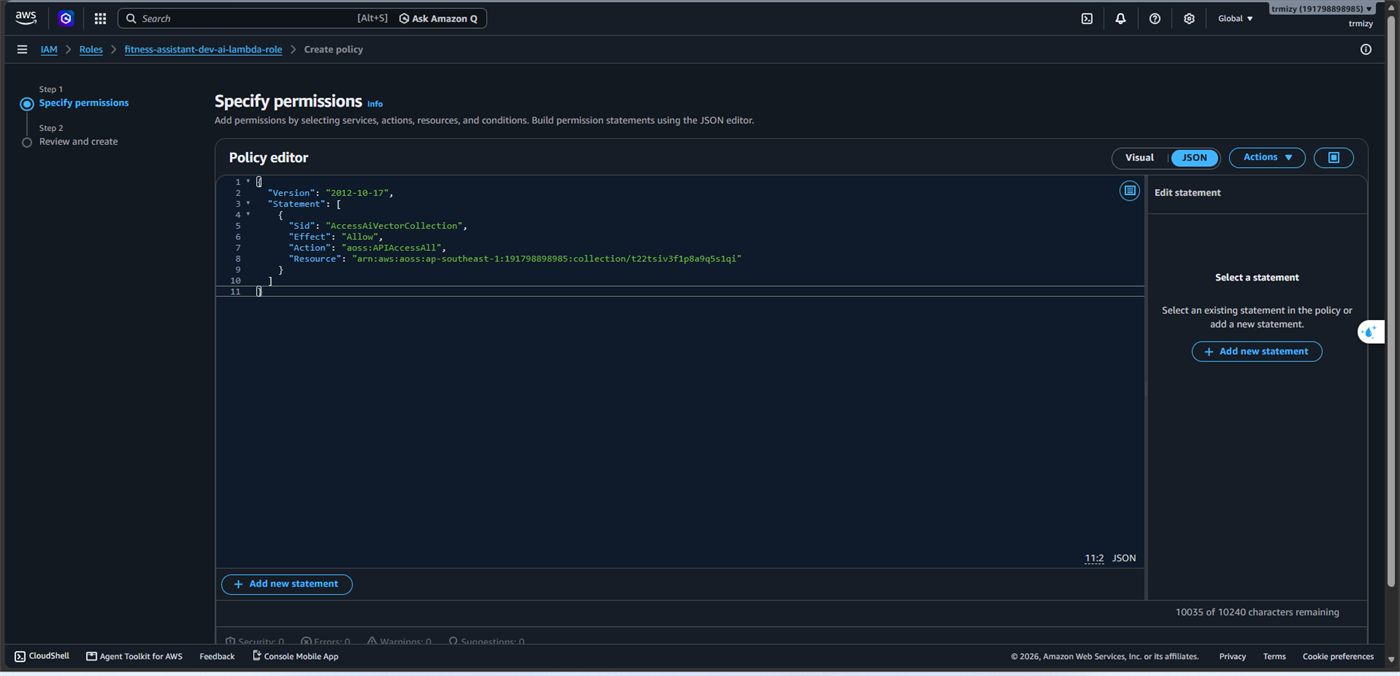
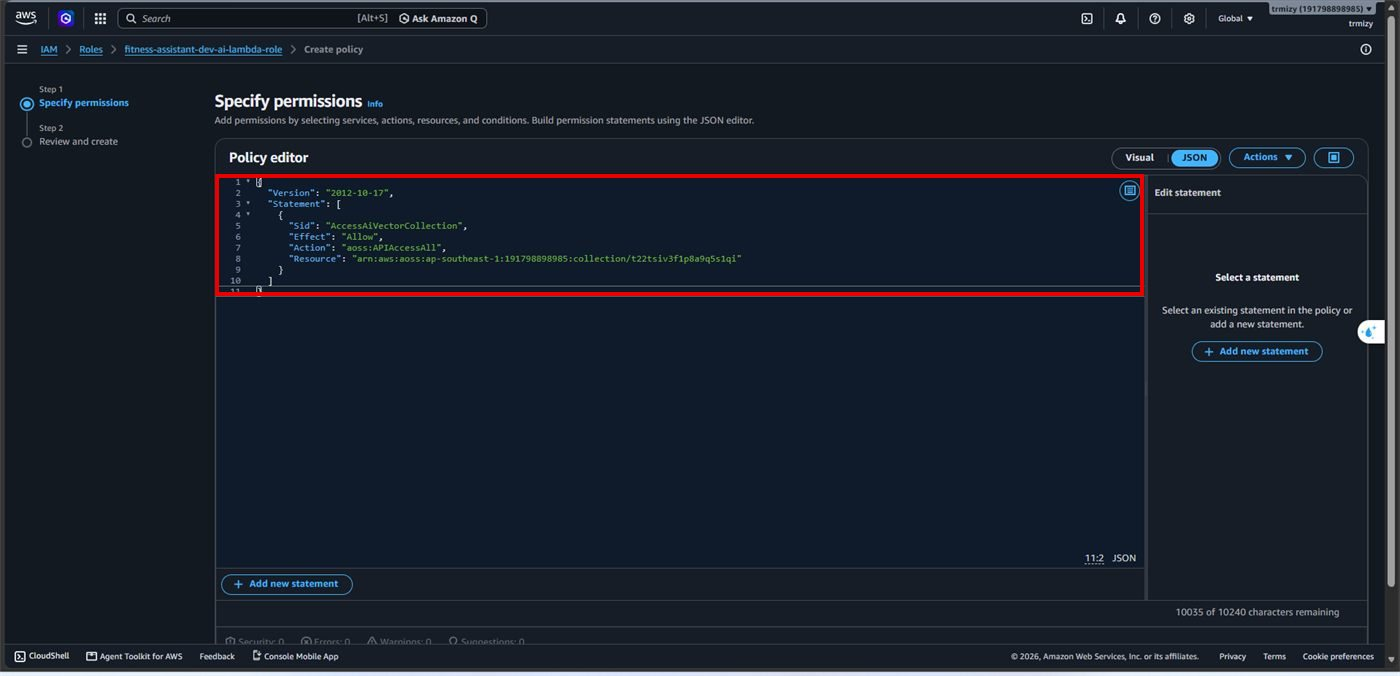
Workshop 5.4.9: one action per step, each followed by its screenshot

Changed region(s): [[0.1536, 0.2485, 0.8293, 0.466]]

diff --git a/content/5-Workshop/5.4-Deployment-Guide/5.4.9-AI-Service-Vector-Search/_index.md b/content/5-Workshop/5.4-Deployment-Guide/5.4.9-AI-Service-Vector-Search/_index.md
@@ -8,9 +8,11 @@ pre: " <b> 5.4.9. </b> "
 
 The local development stack used Qdrant as the vector store. For AWS, the code was given a vector-store abstraction with an OpenSearch implementation (58/58 tests passing), so production no longer needs `QDRANT_HOST` / `QDRANT_PORT`. Requests to OpenSearch are signed with SigV4 (service `aoss`) using each Lambda's IAM role — there is no OpenSearch username, password or API key.
 
+In every screenshot below, the **red rectangles** mark what to fill in or click for the sub-step written just above it.
+
 #### Step 1 — Re-upload the three AI Lambdas
 
-The new build includes the OpenSearch client and SigV4 support (HTTP/Worker ZIP ≈ 36,325,814 bytes), so it is uploaded first, keeping each handler:
+The new build includes the OpenSearch client and SigV4 support (HTTP/Worker ZIP ≈ 36,325,814 bytes), so it is uploaded first, keeping each handler. For each function use **Code → Upload from → .zip file** (or S3) and click **Update**:
 
 | Function | Artifact | Handler |
 |---|---|---|
@@ -20,46 +22,62 @@ The new build includes the OpenSearch client and SigV4 support (HTTP/Worker ZIP 
 
 No database migration is required for this change.
 
+*The runbook has no screenshot of this re-upload; the dialog is the same as in [5.4.8 Step 6.2](../5.4.8-AI-Service-Core/#step-6--create-the-ai-http-lambda).*
+
 #### Step 2 — Collection group with scale-to-zero
 
-**Amazon OpenSearch Service → Serverless → Collection groups → Create collection group**: generation **NextGen**, name `fitness-assistant-dev-ai`, description "Gymini AI vector search collection group".
+**2.1 — Name the group.** **Amazon OpenSearch Service → Serverless → Collection groups → Create collection group**: name `fitness-assistant-dev-ai`, generation **NextGen**, description "Gymini AI vector search collection group".
 
-![Create collection group fitness-assistant-dev-ai (NextGen)](/images/workshop/runbook/img207.jpg)
+![Collection group name, NextGen badge and the description](/images/workshop/runbook/img207.jpg)
+
+**2.2 — Set the capacity.** Scroll to **Capacity management** and set:
 
 | Capacity | Min | Max |
 |---|---|---|
 | Indexing | **0 OCU** | 2 OCU |
 | Search | **0 OCU** | 2 OCU |
 
-A minimum of 0 enables scale-to-zero: after about 10 idle minutes indexing and search drop to 0 OCU, and the first request after that can take an extra 10–30 seconds to wake up. A 0–2 OCU range is far more sensible for DEV than the default maximum of 96.
+Then click **Create**. A minimum of 0 enables scale-to-zero: after about 10 idle minutes indexing and search drop to 0 OCU, and the first request after that can take an extra 10–30 seconds to wake up. A 0–2 OCU range is far more sensible for DEV than the default maximum of 96.
 
-![Capacity: 0–2 indexing OCU and 0–2 search OCU](/images/workshop/runbook/img208.jpg)
+![Minimum and maximum indexing and search OCUs, Create](/images/workshop/runbook/img208.jpg)
 
-![Collection group created: NextGen, 0/2 OCU](/images/workshop/runbook/img209.jpg)
+**2.3 — Check the group.** The list must show `fitness-assistant-dev-ai`, NextGen, indexing 0 / 2 OCUs and search 0 / 2 OCUs.
+
+![Collection group row: NextGen, 0 / 2 OCUs](/images/workshop/runbook/img209.jpg)
 
 #### Step 3 — Private VPC endpoint
 
-**OpenSearch Service → Serverless → VPC endpoints → Create VPC endpoint**: VPC `fitness-assistant-dev-vpc`, subnets `private-app-a` and `private-app-b`. The runbook specifies the existing `fitness-assistant-dev-vpce-sg` (TCP 443 from the Lambda SG); the endpoint captured below (`fitness-dev-opensearch-vpce`) shows the Lambda SG attached — whichever group is attached must allow inbound TCP 443 from the Lambda security group. Wait for **Available** and note the endpoint ID (`vpce-…`, not the endpoint URL).
+**3.1 — Open the VPC endpoints page.** **OpenSearch Service → Serverless → VPC endpoints** and click **Create VPC endpoint**. The page itself warns that it manages endpoints for **Classic** collections and that NextGen collections use the Amazon EC2 VPC endpoints console — keep that in mind if the endpoint does not show up in the NextGen collection later.
 
-![VPC endpoints page for OpenSearch Serverless](/images/workshop/runbook/img210.jpg)
+![VPC endpoints page and the Create VPC endpoint button](/images/workshop/runbook/img210.jpg)
 
-![Endpoint fitness-dev-opensearch-vpce in both private app subnets](/images/workshop/runbook/img211.jpg)
+**3.2 — Fill in the endpoint.** Name `fitness-dev-opensearch-vpce`, VPC `fitness-assistant-dev-vpc`, subnets `private-app-a` and `private-app-b`. The runbook specifies the existing `fitness-assistant-dev-vpce-sg` (TCP 443 from the Lambda SG); the endpoint captured below shows the Lambda SG attached — whichever group is attached must allow inbound TCP 443 from the Lambda security group. Wait for **Available** (the screenshot was taken while it was still **Pending**) and note the endpoint ID (`vpce-…`, not the endpoint URL).
+
+![Endpoint ID, both private app subnets and the attached security group (status Pending)](/images/workshop/runbook/img211.jpg)
 
 #### Step 4 — Vector search collection
 
-**Serverless → Collections → Create collection**: NextGen, **Standard create** (not Express — private networking and access policies must be controlled), name `fitness-assistant-dev-ai-vectors`, description "Gymini AI vector store for RAG and knowledge retrieval", type **Vector search**, collection group `fitness-assistant-dev-ai`, AWS-owned encryption key.
+**4.1 — Start the collection.** **Serverless → Collections → Create collection**.
 
-![Collections page](/images/workshop/runbook/img212.jpg)
+![Collections page with no collections and the Create collection button](/images/workshop/runbook/img212.jpg)
 
-![Collection fitness-assistant-dev-ai-vectors, type Vector search](/images/workshop/runbook/img213.jpg)
+**4.2 — Name it and choose the type.** NextGen, name `fitness-assistant-dev-ai-vectors`, description "Gymini AI vector store for RAG and knowledge retrieval", collection type **Vector search**.
 
-![Standard create in the existing collection group](/images/workshop/runbook/img214.jpg)
+![Collection name, description and Vector search type](/images/workshop/runbook/img213.jpg)
 
-Networking: access type **Private**, through the VPC endpoint above — no public access.
+**4.3 — Choose Standard create and the group.** Choose **Standard create** (not Express — private networking and access policies must be controlled), **Select existing collection group** and pick `fitness-assistant-dev-ai`.
 
-![Private access through the VPC endpoint](/images/workshop/runbook/img215.jpg)
+![Standard create, existing collection group fitness-assistant-dev-ai](/images/workshop/runbook/img214.jpg)
 
-Data access: **Create as a new data access policy** named `fitness-dev-ai-vector-access`, defined as **JSON** rather than ticking permissions in the visual editor:
+**4.4 — Network access.** Keep the AWS-owned encryption key, choose access type **Private (recommended)**, tick **VPC endpoints for access** and select the endpoint from Step 3 — no public access.
+
+![Private access with the VPC endpoint selected](/images/workshop/runbook/img215.jpg)
+
+**4.5 — Data access policy, part 1.** **Create as a new data access policy**, name `fitness-dev-ai-vector-access`, definition method **JSON** rather than ticking permissions in the visual editor.
+
+![Create a new data access policy, its name and the JSON method](/images/workshop/runbook/img216.jpg)
+
+**4.6 — Data access policy, part 2.** Paste the JSON:
 
 ```json
 [
@@ -94,23 +112,27 @@ Data access: **Create as a new data access policy** named `fitness-dev-ai-vector
 
 `aoss:DeleteIndex` is deliberately not granted.
 
-![Data access policy fitness-dev-ai-vector-access, defined as JSON](/images/workshop/runbook/img216.jpg)
+![JSON editor holding the data access policy](/images/workshop/runbook/img217.jpg)
 
-![Data access policy JSON](/images/workshop/runbook/img217.jpg)
+**4.7 — OpenSearch UI.** The wizard also creates an OpenSearch application and workspace for browsing the data: **Create new OpenSearch application** `aoss-fitness-dev-ai` and **Create new workspace** `fitness-dev-ai-vectors`.
 
-The wizard also creates an OpenSearch application (`aoss-fitness-dev-ai`) and workspace for browsing the data, with administrator permission limited to the account's IAM principal.
+![New application aoss-fitness-dev-ai and new workspace fitness-dev-ai-vectors](/images/workshop/runbook/img218.jpg)
 
-![OpenSearch application and workspace](/images/workshop/runbook/img218.jpg)
+**4.8 — Administrators and creation.** Leave IAM Identity Center unticked, grant administrator permission to the account's IAM principal only, then click **Create collection**.
 
-![Application administrators](/images/workshop/runbook/img219.jpg)
+![Application administrators and the Create collection button](/images/workshop/runbook/img219.jpg)
 
-![Creating the collection](/images/workshop/runbook/img220.jpg)
+**4.9 — Wait for creation.** The page shows "Creating collection"; do not navigate away until the collection details page appears.
+
+![Important notice: creating OpenSearch Serverless resources](/images/workshop/runbook/img220.jpg)
 
 When the collection is **Active**, copy its **ARN** (for IAM) and **OpenSearch endpoint** (`https://<collection-id>.aoss.ap-southeast-1.on.aws`, for the Lambdas) with the console's copy buttons. Indexes are not created by hand.
 
 #### Step 5 — IAM permission on all three AI roles
 
-The data access policy and IAM are two separate layers; missing either one returns 403. Add the inline policy `fitness-assistant-dev-opensearch-access` to **each** of `fitness-assistant-dev-ai-lambda-role`, `-ai-worker-role` and `-ai-jobs-role`:
+The data access policy and IAM are two separate layers; missing either one returns 403. Do the two sub-steps below for **each** of `fitness-assistant-dev-ai-lambda-role`, `-ai-worker-role` and `-ai-jobs-role` (the screenshots show the first one).
+
+**5.1 — Paste the policy.** **IAM → Roles → the role → Add permissions → Create inline policy → JSON**:
 
 ```json
 {
@@ -130,11 +152,13 @@ Not used: `AmazonOpenSearchServerlessFullAccess`, `aoss:DashboardsAccessAll`, `a
 
 ![aoss:APIAccessAll limited to the collection ARN](/images/workshop/runbook/img221.jpg)
 
-![Policy name fitness-assistant-dev-opensearch-access](/images/workshop/runbook/img222.jpg)
+**5.2 — Name and create it.** `fitness-assistant-dev-opensearch-access`, **Create policy**.
+
+![Policy name fitness-assistant-dev-opensearch-access and Create policy](/images/workshop/runbook/img222.jpg)
 
 #### Step 6 — Environment variables
 
-Add to all three AI Lambdas (and remove `QDRANT_HOST` / `QDRANT_PORT` if present):
+**6.1 — Add the variables** on all three AI Lambdas (**Configuration → Environment variables → Edit**), and remove `QDRANT_HOST` / `QDRANT_PORT` if present:
 
 ```
 VECTOR_STORE_PROVIDER=opensearch
@@ -143,9 +167,9 @@ OPENSEARCH_SERVERLESS_ENDPOINT=https://<collection-id>.aoss.ap-southeast-1.on.aw
 KNOWLEDGE_VECTOR_SIZE=1024
 ```
 
-The Worker keeps `LLM_TIMEOUT_MS=180000`.
+The Worker keeps `LLM_TIMEOUT_MS=180000`. The screenshot shows the three OpenSearch rows on the AI Lambda and the **Save** button (`KNOWLEDGE_VECTOR_SIZE` was already set in [5.4.8](../5.4.8-AI-Service-Core/)).
 
-![OpenSearch environment variables on the AI Lambda](/images/workshop/runbook/img223.jpg)
+![VECTOR_STORE_PROVIDER, OPENSEARCH_REGION, OPENSEARCH_SERVERLESS_ENDPOINT and Save](/images/workshop/runbook/img223.jpg)
 
 ```
                  Amazon Bedrock
@@ -161,35 +185,49 @@ The Worker keeps `LLM_TIMEOUT_MS=180000`.
 
 #### Step 7 — Let the code create the indexes
 
-The collection shows *Indexes: -* and stays that way: the indexes `exercises`, `fitness_knowledge`, `fitness_faq` and `fitness_evidence` are bootstrapped by the code on first use with the exact mapping it expects — vector field `vector`, type `knn_vector`, dimension **1024**, engine `faiss`, method `hnsw`, space `cosinesimil`. If an index exists with the wrong dimension the code fails instead of deleting data.
+No action in the console. The collection shows *Indexes: -* and stays that way: the indexes `exercises`, `fitness_knowledge`, `fitness_faq` and `fitness_evidence` are bootstrapped by the code on first use with the exact mapping it expects — vector field `vector`, type `knn_vector`, dimension **1024**, engine `faiss`, method `hnsw`, space `cosinesimil`. If an index exists with the wrong dimension the code fails instead of deleting data.
 
 #### Step 8 — Scheduler role for the AI jobs
 
-Custom trust policy for `scheduler.amazonaws.com`, role `fitness-assistant-dev-ai-jobs-scheduler-role`, inline policy `fitness-assistant-dev-invoke-ai-jobs` with `lambda:InvokeFunction` on `fitness-assistant-dev-ai-jobs` only.
+**8.1 — Choose the custom trust policy.** **IAM → Roles → Create role**, choose **Custom trust policy** and paste a statement with principal `scheduler.amazonaws.com` and action `sts:AssumeRole`.
 
-![Custom trust policy for EventBridge Scheduler](/images/workshop/runbook/img224.jpg)
+![Custom trust policy selected and its JSON for scheduler.amazonaws.com](/images/workshop/runbook/img224.jpg)
 
-![Role fitness-assistant-dev-ai-jobs-scheduler-role](/images/workshop/runbook/img225.jpg)
+**8.2 — Name the role.** `fitness-assistant-dev-ai-jobs-scheduler-role`, then **Create role**.
 
-![Inline policy for the AI jobs Lambda](/images/workshop/runbook/img226.jpg)
+![Role name fitness-assistant-dev-ai-jobs-scheduler-role](/images/workshop/runbook/img225.jpg)
 
-![Policy name fitness-assistant-dev-invoke-ai-jobs](/images/workshop/runbook/img227.jpg)
+**8.3 — Write the inline policy.** On the role, **Add permissions → Create inline policy → JSON**: `lambda:InvokeFunction` on `fitness-assistant-dev-ai-jobs` only.
+
+![JSON editor: lambda:InvokeFunction on fitness-assistant-dev-ai-jobs](/images/workshop/runbook/img226.jpg)
+
+**8.4 — Name and create it.** `fitness-assistant-dev-invoke-ai-jobs`, **Create policy**.
+
+![Policy name fitness-assistant-dev-invoke-ai-jobs and Create policy](/images/workshop/runbook/img227.jpg)
 
 #### Step 9 — Five schedules
 
-The auto-accept schedule: `fitness-assistant-dev-ai-autoaccept`, `rate(15 minutes)`, payload `{"job": "personalized-service-autoaccept-sweep"}`, enabled, the AI jobs scheduler role.
+**9.1 — Name the auto-accept schedule.** **EventBridge → Schedules → Create schedule**: name `fitness-assistant-dev-ai-autoaccept`, **Recurring schedule**, **Rate-based schedule**.
 
-![Schedule fitness-assistant-dev-ai-autoaccept](/images/workshop/runbook/img228.jpg)
+![Schedule name, Recurring schedule and Rate-based schedule](/images/workshop/runbook/img228.jpg)
 
-![rate(15 minutes), flexible window off](/images/workshop/runbook/img229.jpg)
+**9.2 — Set the rate.** `15` `minutes`, flexible time window **Off**, then **Next**.
 
-![Target fitness-assistant-dev-ai-jobs with the auto-accept payload](/images/workshop/runbook/img230.jpg)
+![Rate 15 minutes, flexible window Off and Next](/images/workshop/runbook/img229.jpg)
 
-![Retry policy and DLQ settings](/images/workshop/runbook/img231.jpg)
+**9.3 — Choose the target.** Click the **AWS Lambda — Invoke** tile, pick `fitness-assistant-dev-ai-jobs` and enter the payload `{"job": "personalized-service-autoaccept-sweep"}`.
 
-![Existing role fitness-assistant-dev-ai-jobs-scheduler-role](/images/workshop/runbook/img232.jpg)
+![AWS Lambda Invoke, function ai-jobs and the auto-accept payload](/images/workshop/runbook/img230.jpg)
 
-Then four nightly knowledge-ingestion schedules (cron-based, time zone `Asia/Ho_Chi_Minh` so they run at night Vietnam time):
+**9.4 — Choose the settings.** Keep the schedule enabled, retry on with maximum age `0` hours `5` minutes, `2` retry attempts and DLQ **None**.
+
+![Enable, retry 5 minutes, 2 attempts, DLQ None](/images/workshop/runbook/img231.jpg)
+
+**9.5 — Choose the role.** **Use existing role**: `fitness-assistant-dev-ai-jobs-scheduler-role`, then **Next** and create the schedule.
+
+![Use existing role, the AI jobs scheduler role and Next](/images/workshop/runbook/img232.jpg)
+
+**9.6 — Create the four nightly schedules** the same way, but cron-based, time zone `Asia/Ho_Chi_Minh` so they run at night Vietnam time:
 
 | Schedule | Expression | Payload |
 |---|---|---|
@@ -198,6 +236,8 @@ Then four nightly knowledge-ingestion schedules (cron-based, time zone `Asia/Ho_
 | `fitness-assistant-dev-ai-rss` | `cron(0 3 * * ? *)` | `{"job":"rss-refresh"}` |
 | `fitness-assistant-dev-ai-web` | `cron(30 3 * * ? *)` | `{"job":"web-refresh"}` |
 
+*The runbook has no screenshots of the four cron schedules.*
+
 ```
 EventBridge Scheduler → AI Jobs Lambda → PubMed / RSS / Web / Local
    → Cohere Embed Multilingual v3 (1024) → OpenSearch Serverless → fitness_knowledge / fitness_evidence …
@@ -205,7 +245,11 @@ EventBridge Scheduler → AI Jobs Lambda → PubMed / RSS / Web / Local
 
 #### Step 10 — Connect the AI Lambda to API Gateway
 
-Create the Lambda integration `fitness-assistant-dev-ai` (payload 2.0) and eight routes:
+**10.1 — Create the integration.** **API Gateway → fitness-assistant-dev-api → Integrations → Create**: **Lambda function**, region `ap-southeast-1`, pick `fitness-assistant-dev-ai`, payload format `2.0`, keep **Grant API Gateway permission to invoke your Lambda function**, then **Create**.
+
+![Lambda function integration, payload 2.0 and Create](/images/workshop/runbook/img233.jpg)
+
+**10.2 — Create and attach eight routes.**
 
 ```
 ANY /ai            ANY /ai/{proxy+}
@@ -216,13 +260,19 @@ ANY /admin/ai      ANY /admin/ai/{proxy+}
 
 The greedy routes cover `POST /ai/ask`, `GET /ai/conversations`, `POST /ai/agent/goal-image`, `POST /plans/workout/generate`, `GET /plans/job/{id}`, `GET /admin/ai/overview` and so on. Route authorization stays **NONE**: the AI Lambda verifies the Bearer JWT itself through the Auth Lambda and rejects spoofed `x-user-id` / `x-user-role` headers, so adding an API Gateway JWT authorizer would create a second, inconsistent auth layer. `/internal/*`, `/metrics` and `/{proxy+}` are not created.
 
-![Lambda integration for fitness-assistant-dev-ai](/images/workshop/runbook/img233.jpg)
+**10.3 — Check one route.** Under **Attach integrations to routes**, select `ANY /admin/ai`; the details must show `fitness-assistant-dev-ai`.
 
-![AI routes attached to the integration](/images/workshop/runbook/img234.jpg)
+![Route ANY /admin/ai selected, Lambda function fitness-assistant-dev-ai](/images/workshop/runbook/img234.jpg)
 
 #### Step 11 — Payment → AI
 
-After a successful payment, Payment activates the personalized service by invoking the AI Lambda's internal endpoint `POST /internal/personalized-service/orders/:id/activate-after-payment` (idempotent, so retries are safe). Add `AI_LAMBDA_NAME=fitness-assistant-dev-ai` to both `fitness-assistant-dev-payment` and `fitness-assistant-dev-payment-jobs`, and add to the Payment role:
+After a successful payment, Payment activates the personalized service by invoking the AI Lambda's internal endpoint `POST /internal/personalized-service/orders/:id/activate-after-payment` (idempotent, so retries are safe).
+
+**11.1 — Add the variable.** Add `AI_LAMBDA_NAME=fitness-assistant-dev-ai` to both `fitness-assistant-dev-payment` and `fitness-assistant-dev-payment-jobs`.
+
+![AI_LAMBDA_NAME = fitness-assistant-dev-ai on the Payment Lambda](/images/workshop/runbook/img235.jpg)
+
+**11.2 — Allow the invoke.** Add to the Payment role:
 
 ```json
 {
@@ -233,7 +283,7 @@ After a successful payment, Payment activates the personalized service by invoki
 }
 ```
 
-![AI_LAMBDA_NAME on the Payment Lambda](/images/workshop/runbook/img235.jpg)
+*The runbook has no screenshot of the policy edit.*
 
 No public URL, `/internal` route or Lambda Function URL is created for this. The chain is now: user → AI marketplace → Payment → provider → webhook/reconciliation → Payment Lambda → (direct invoke) AI Lambda → activate service.
 
@@ -247,6 +297,8 @@ The old application gateway limited `/ai/ask` to 20 requests per 60 seconds, and
 | `ANY /plans`, `ANY /plans/{proxy+}` | 1 | 3 |
 | `ANY /marketplace`, `ANY /marketplace/{proxy+}` | 3 | 6 |
 | `ANY /admin/ai`, `ANY /admin/ai/{proxy+}` | 1 | 3 |
+
+*The runbook has no screenshot of the throttling settings.*
 
 API Gateway uses a token bucket and returns **HTTP 429** when the limit is exceeded; the limits are best-effort targets, not hard ceilings, and they apply per route, not per user. The frontend must show a "too many requests, try again later" message with backoff instead of retrying in a loop. Usage plans / API keys (a REST API feature) and Lambda reserved concurrency (which would throttle all AI routes together) are deliberately not used.
 
